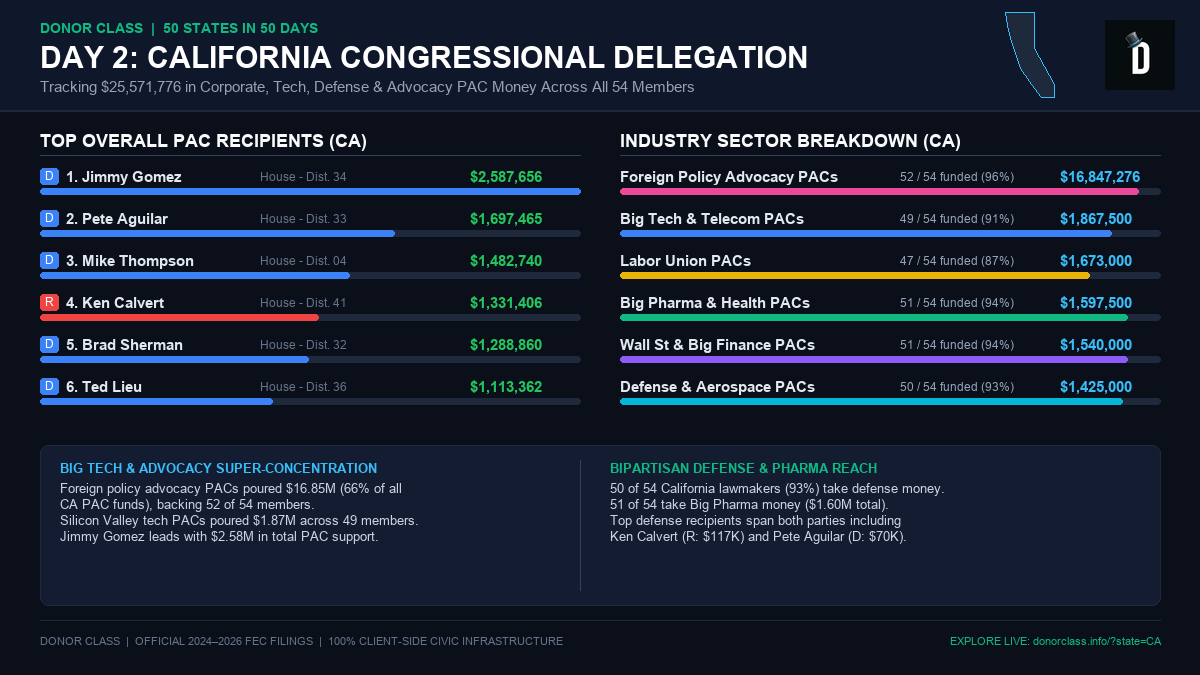
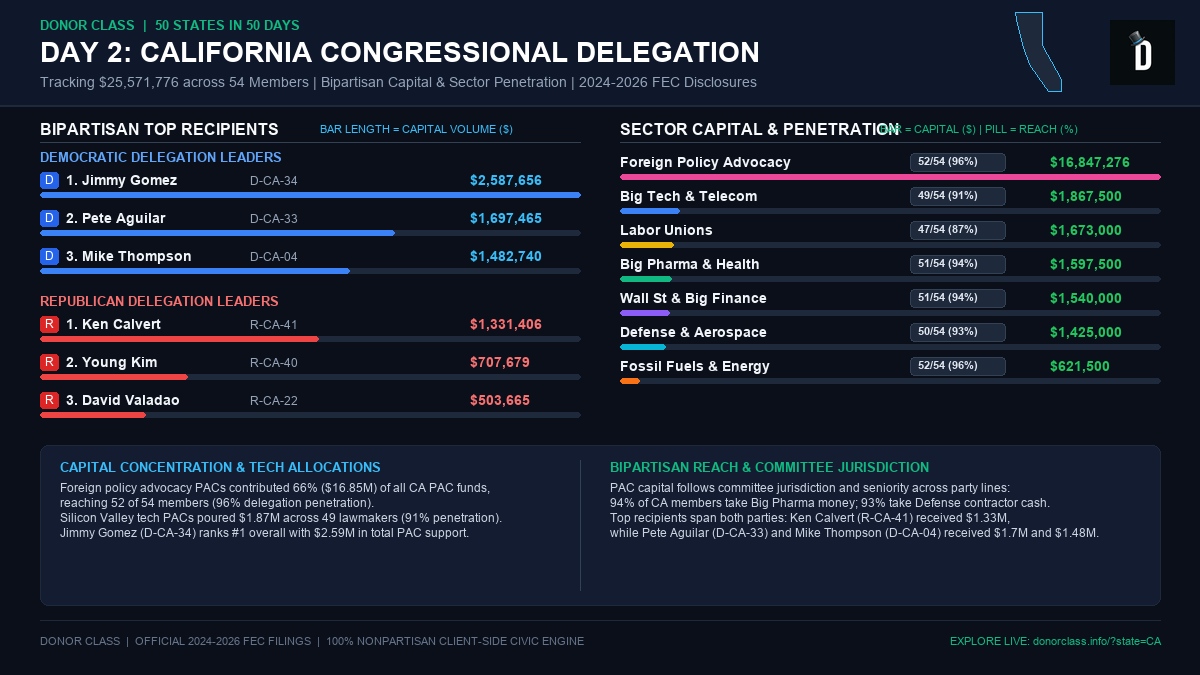
feat(viz): redesign California state infographic with dual-metric scale and bipartisan balance

diff --git a/scripts/generate_california_infographic.py b/scripts/generate_california_infographic.py
@@ -1,0 +1,197 @@
+import os
+from PIL import Image, ImageDraw, ImageFont
+
+W, H = 1200, 675
+img = Image.new("RGBA", (W, H), "#0b0f19")
+draw = ImageDraw.Draw(img)
+
+font_path_bold = "/System/Library/Fonts/Supplemental/Arial Bold.ttf"
+font_path_reg = "/System/Library/Fonts/Supplemental/Arial.ttf"
+
+font_header = ImageFont.truetype(font_path_bold, 13)
+font_title = ImageFont.truetype(font_path_bold, 28)
+font_sub = ImageFont.truetype(font_path_reg, 14)
+font_col_header = ImageFont.truetype(font_path_bold, 16)
+font_col_sub = ImageFont.truetype(font_path_reg, 11)
+font_section = ImageFont.truetype(font_path_bold, 13)
+font_name = ImageFont.truetype(font_path_bold, 14)
+font_meta = ImageFont.truetype(font_path_reg, 12)
+font_amt = ImageFont.truetype(font_path_bold, 14)
+font_pill = ImageFont.truetype(font_path_bold, 11)
+font_box_title = ImageFont.truetype(font_path_bold, 13)
+font_box_body = ImageFont.truetype(font_path_reg, 12)
+font_footer = ImageFont.truetype(font_path_reg, 11)
+
+# Header Area
+draw.rectangle([(0, 0), (W, 105)], fill="#0f172a")
+draw.line([(0, 105), (W, 105)], fill="#1e293b", width=2)
+
+# California State Silhouette Drawing (Top Right, next to logo)
+ca_poly_base = [
+    (0, 0),      # NW corner
+    (65, 0),     # NE corner
+    (65, 80),    # Nevada angle point
+    (110, 160),  # SE angle point
+    (110, 190),  # SE corner
+    (80, 190),   # San Diego / Tijuana border
+    (55, 155),   # LA / Orange County coast
+    (35, 125),   # Point Conception
+    (20, 85),    # Big Sur coast
+    (15, 65),    # SF Bay Area coast
+    (5, 30),     # Mendocino / Humboldt coast
+    (0, 0)
+]
+
+ca_offset_x = W - 185
+ca_offset_y = 12
+ca_scale = 0.42
+ca_poly = [(ca_offset_x + x * ca_scale, ca_offset_y + y * ca_scale) for x, y in ca_poly_base]
+draw.polygon(ca_poly, fill="#1e293b", outline="#38bdf8")
+
+# Paste logo in top right if available
+logo_path = "./logo-master.png"
+if os.path.exists(logo_path):
+    try:
+        logo = Image.open(logo_path).convert("RGBA")
+        logo.thumbnail((65, 65), Image.Resampling.LANCZOS)
+        img.paste(logo, (W - 90, 20), logo)
+    except Exception:
+        pass
+
+# Header text
+draw.text((40, 18), "DONOR CLASS  |  50 STATES IN 50 DAYS", font=font_header, fill="#10b981")
+draw.text((40, 36), "DAY 2: CALIFORNIA CONGRESSIONAL DELEGATION", font=font_title, fill="#ffffff")
+draw.text((40, 74), "Tracking $25,571,776 across 54 Members | Bipartisan Capital & Sector Penetration | 2024-2026 FEC Disclosures", font=font_sub, fill="#94a3b8")
+
+# ==============================================================================
+# LEFT COLUMN: BIPARTISAN TOP RECIPIENTS (CAPITAL VOLUME)
+# ==============================================================================
+col1_x = 40
+col1_w = 540
+
+draw.text((col1_x, 120), "BIPARTISAN TOP RECIPIENTS", font=font_col_header, fill="#f8fafc")
+draw.text((col1_x + 280, 123), "BAR LENGTH = CAPITAL VOLUME ($)", font=font_col_sub, fill="#38bdf8")
+draw.line([(col1_x, 142), (col1_x + col1_w, 142)], fill="#334155", width=1)
+
+# Group 1: Top Democrats
+draw.text((col1_x, 150), "DEMOCRATIC DELEGATION LEADERS", font=font_section, fill="#60a5fa")
+
+top_democrats = [
+    ("1. Jimmy Gomez", "D-CA-34", "$2,587,656", 1.0),
+    ("2. Pete Aguilar", "D-CA-33", "$1,697,465", 0.656),
+    ("3. Mike Thompson", "D-CA-04", "$1,482,740", 0.573),
+]
+
+y_dem = 172
+max_amt_val = 2587656
+for name, dist, amt, scale in top_democrats:
+    draw.rounded_rectangle([(col1_x, y_dem), (col1_x + 18, y_dem + 16)], radius=3, fill="#2563eb")
+    draw.text((col1_x + 5, y_dem + 1), "D", font=font_meta, fill="#ffffff")
+    draw.text((col1_x + 26, y_dem), name, font=font_name, fill="#f1f5f9")
+    draw.text((col1_x + 210, y_dem + 2), dist, font=font_meta, fill="#94a3b8")
+    draw.text((col1_x + 430, y_dem), amt, font=font_amt, fill="#38bdf8")
+    
+    bar_y = y_dem + 20
+    draw.rounded_rectangle([(col1_x, bar_y), (col1_x + col1_w, bar_y + 5)], radius=2, fill="#1e293b")
+    draw.rounded_rectangle([(col1_x, bar_y), (col1_x + int(col1_w * scale), bar_y + 5)], radius=2, fill="#3b82f6")
+    y_dem += 38
+
+# Group 2: Top Republicans
+draw.text((col1_x, y_dem + 8), "REPUBLICAN DELEGATION LEADERS", font=font_section, fill="#f87171")
+
+top_republicans = [
+    ("1. Ken Calvert", "R-CA-41", "$1,331,406", 0.515),
+    ("2. Young Kim", "R-CA-40", "$707,679", 0.274),
+    ("3. David Valadao", "R-CA-22", "$503,665", 0.195),
+]
+
+y_rep = y_dem + 30
+for name, dist, amt, scale in top_republicans:
+    draw.rounded_rectangle([(col1_x, y_rep), (col1_x + 18, y_rep + 16)], radius=3, fill="#dc2626")
+    draw.text((col1_x + 5, y_rep + 1), "R", font=font_meta, fill="#ffffff")
+    draw.text((col1_x + 26, y_rep), name, font=font_name, fill="#f1f5f9")
+    draw.text((col1_x + 210, y_rep + 2), dist, font=font_meta, fill="#94a3b8")
+    draw.text((col1_x + 430, y_rep), amt, font=font_amt, fill="#f87171")
+    
+    bar_y = y_rep + 20
+    draw.rounded_rectangle([(col1_x, bar_y), (col1_x + col1_w, bar_y + 5)], radius=2, fill="#1e293b")
+    draw.rounded_rectangle([(col1_x, bar_y), (col1_x + int(col1_w * scale), bar_y + 5)], radius=2, fill="#ef4444")
+    y_rep += 38
+
+# ==============================================================================
+# RIGHT COLUMN: ECONOMIC SECTOR VOLUME & PENETRATION
+# ==============================================================================
+col2_x = 620
+col2_w = 540
+
+draw.text((col2_x, 120), "SECTOR CAPITAL & PENETRATION", font=font_col_header, fill="#f8fafc")
+draw.text((col2_x + 260, 123), "BAR = CAPITAL ($) | PILL = REACH (%)", font=font_col_sub, fill="#10b981")
+draw.line([(col2_x, 142), (col2_x + col2_w, 142)], fill="#334155", width=1)
+
+sectors = [
+    ("Foreign Policy Advocacy", "$16,847,276", "52/54 (96%)", 1.0, "#ec4899"),
+    ("Big Tech & Telecom", "$1,867,500", "49/54 (91%)", 0.111, "#3b82f6"),
+    ("Labor Unions", "$1,673,000", "47/54 (87%)", 0.099, "#eab308"),
+    ("Big Pharma & Health", "$1,597,500", "51/54 (94%)", 0.095, "#10b981"),
+    ("Wall St & Big Finance", "$1,540,000", "51/54 (94%)", 0.091, "#8b5cf6"),
+    ("Defense & Aerospace", "$1,425,000", "50/54 (93%)", 0.085, "#06b6d4"),
+    ("Fossil Fuels & Energy", "$621,500", "52/54 (96%)", 0.037, "#f97316"),
+]
+
+y_sec = 154
+for sec_name, sec_amt, sec_pill, bar_scale, sec_color in sectors:
+    # Sector name
+    draw.text((col2_x, y_sec), sec_name, font=font_name, fill="#f1f5f9")
+    
+    # Penetration Pill Badge (Separate distinct visual from dollar bar)
+    pill_w = 95
+    pill_x = col2_x + 290
+    draw.rounded_rectangle([(pill_x, y_sec - 1), (pill_x + pill_w, y_sec + 17)], radius=4, fill="#1e293b", outline="#334155")
+    draw.text((pill_x + 8, y_sec + 1), sec_pill, font=font_pill, fill="#e2e8f0")
+    
+    # Amount text
+    draw.text((col2_x + 430, y_sec), sec_amt, font=font_amt, fill="#22c55e")
+    
+    # Proportional Dollar Bar
+    bar_y = y_sec + 20
+    draw.rounded_rectangle([(col2_x, bar_y), (col2_x + col2_w, bar_y + 5)], radius=2, fill="#1e293b")
+    # minimum visible bar of 6px so smaller sectors remain visible
+    actual_bar_w = max(int(col2_w * bar_scale), 6)
+    draw.rounded_rectangle([(col2_x, bar_y), (col2_x + actual_bar_w, bar_y + 5)], radius=2, fill=sec_color)
+    
+    y_sec += 34
+
+# ==============================================================================
+# BOTTOM CALLOUT BOX: BIPARTISAN & SCALE INSIGHTS
+# ==============================================================================
+box_y = 445
+box_h = 160
+draw.rounded_rectangle([(40, box_y), (W - 40, box_y + box_h)], radius=8, fill="#131c31", outline="#1e293b", width=1)
+
+# Left sub-box: Capital Distribution
+draw.text((60, box_y + 15), "CAPITAL CONCENTRATION & TECH ALLOCATIONS", font=font_box_title, fill="#38bdf8")
+draw.text((60, box_y + 36), "Foreign policy advocacy PACs contributed 66% ($16.85M) of all CA PAC funds,\nreaching 52 of 54 members (96% delegation penetration).\nSilicon Valley tech PACs poured $1.87M across 49 lawmakers (91% penetration).\nJimmy Gomez (D-CA-34) ranks #1 overall with $2.59M in total PAC support.", font=font_box_body, fill="#cbd5e1")
+
+draw.line([(580, box_y + 15), (580, box_y + box_h - 15)], fill="#334155", width=1)
+
+# Right sub-box: Bipartisan Balance
+draw.text((610, box_y + 15), "BIPARTISAN REACH & COMMITTEE JURISDICTION", font=font_box_title, fill="#10b981")
+draw.text((610, box_y + 36), "PAC capital follows committee jurisdiction and seniority across party lines:\n94% of CA members take Big Pharma money; 93% take Defense contractor cash.\nTop recipients span both parties: Ken Calvert (R-CA-41) received $1.33M,\nwhile Pete Aguilar (D-CA-33) and Mike Thompson (D-CA-04) received $1.7M and $1.48M.", font=font_box_body, fill="#cbd5e1")
+
+# Footer
+draw.line([(40, 620), (W - 40, 620)], fill="#1e293b", width=1)
+draw.text((40, 635), "DONOR CLASS  |  OFFICIAL 2024-2026 FEC FILINGS  |  100% NONPARTISAN CLIENT-SIDE CIVIC ENGINE", font=font_footer, fill="#64748b")
+draw.text((W - 250, 635), "EXPLORE LIVE: donorclass.info/?state=CA", font=font_footer, fill="#10b981")
+
+out_dir = "~/.gemini/antigravity/brain/a9dd7135-f05e-45c6-b160-b7d791ff4202"
+out_path = os.path.join(out_dir, "california-infographic.png")
+img.save(out_path, "PNG")
+
+# Also copy to repo assets
+repo_assets = "./assets/infographics"
+if os.path.exists(repo_assets):
+    repo_out = os.path.join(repo_assets, "california-infographic.png")
+    img.save(repo_out, "PNG")
+    print("Saved to repo assets:", repo_out)
+
+print("Saved California graphic v2 to:", out_path)
